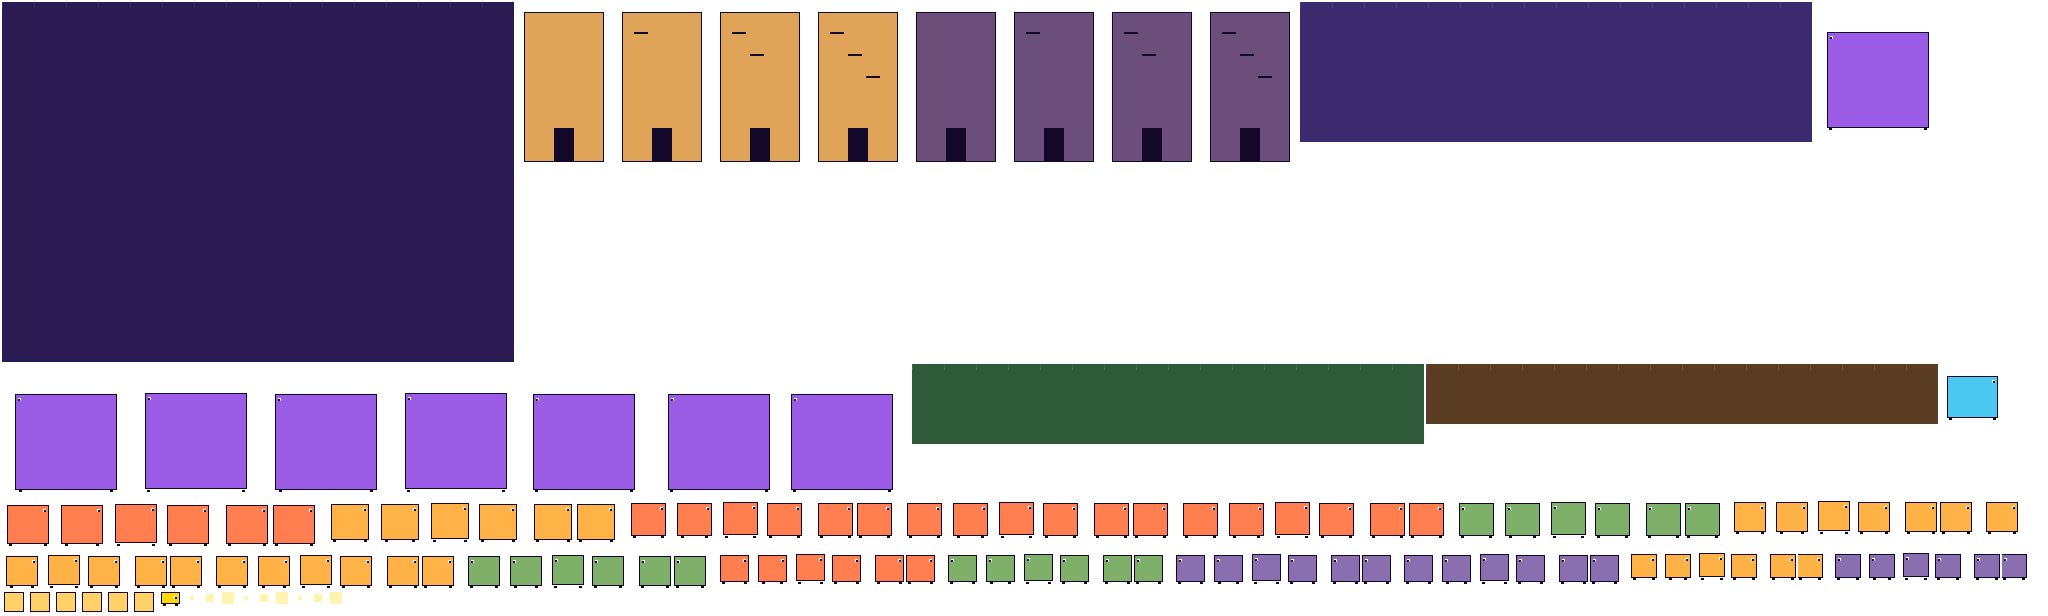
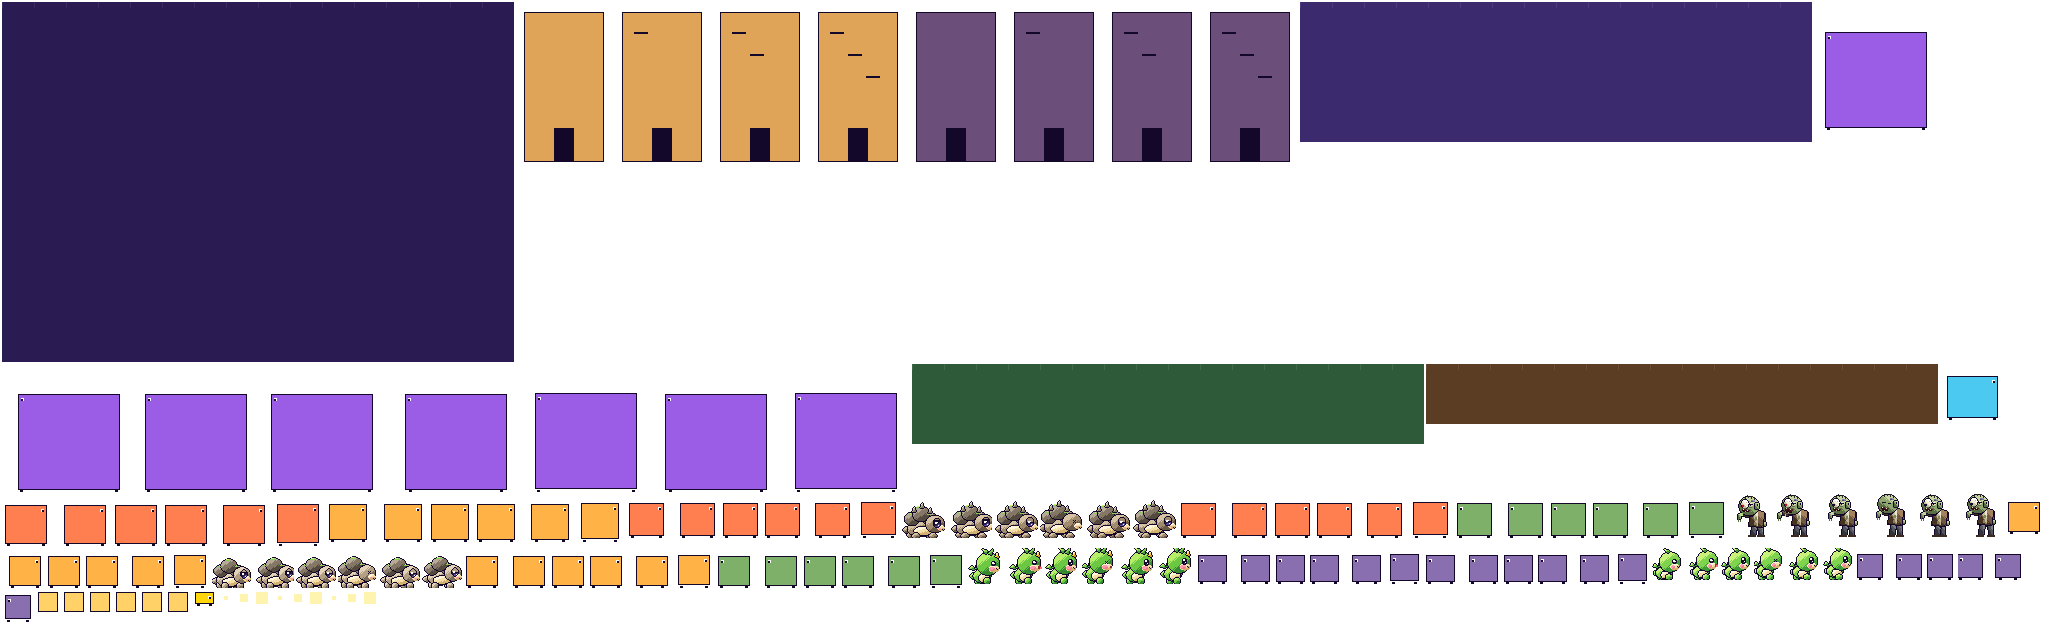
이안 드래곤 그림: 시트 굽기(진짜 그림 + 빠진 이름은 자리표시) · 그림 검사 · 첫 진짜 시트(꼬물이 · 돌등이 · 어슬렁 좀비 승인본)

diff --git a/src/games/iandragon_game/art/index.js b/src/games/iandragon_game/art/index.js
@@ -1,0 +1,9 @@
+/**
+ * 이안 드래곤 게임 — 그림 목록 (겜팀장). 굽기 스크립트(tools/idg-art-build.mjs)가 이 목록만 본다.
+ * FRAMES: 프레임 이름 접두 → { anims: [...], draw(anim) → Pix, anchor? }
+ *   접두 + '/' + 동작 = 시트의 프레임 이름 (팀 계획서 2.1). 배경(bg/…)은 동작 없이 접두가 곧 이름.
+ */
+import { UNITS, ANIMS } from './units.js';
+
+export const FRAMES = {};
+for (const [k, draw] of Object.entries(UNITS)) FRAMES[k] = { anims: ANIMS, draw };
